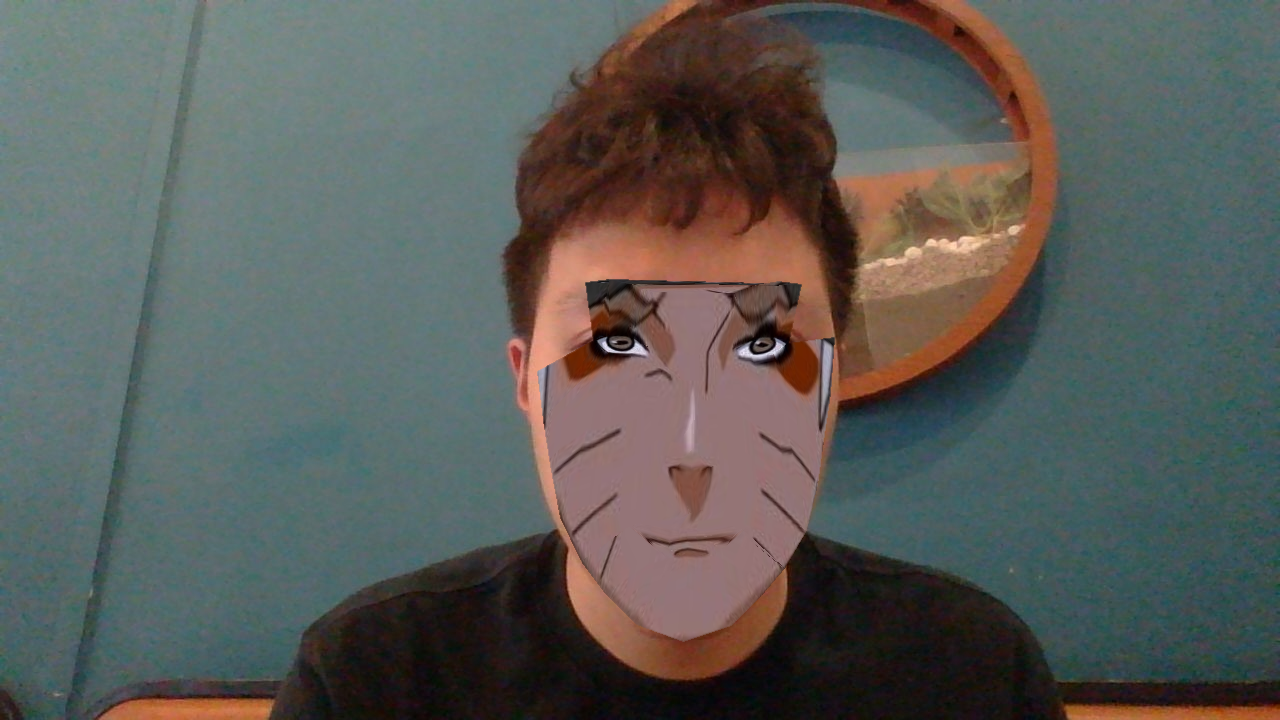
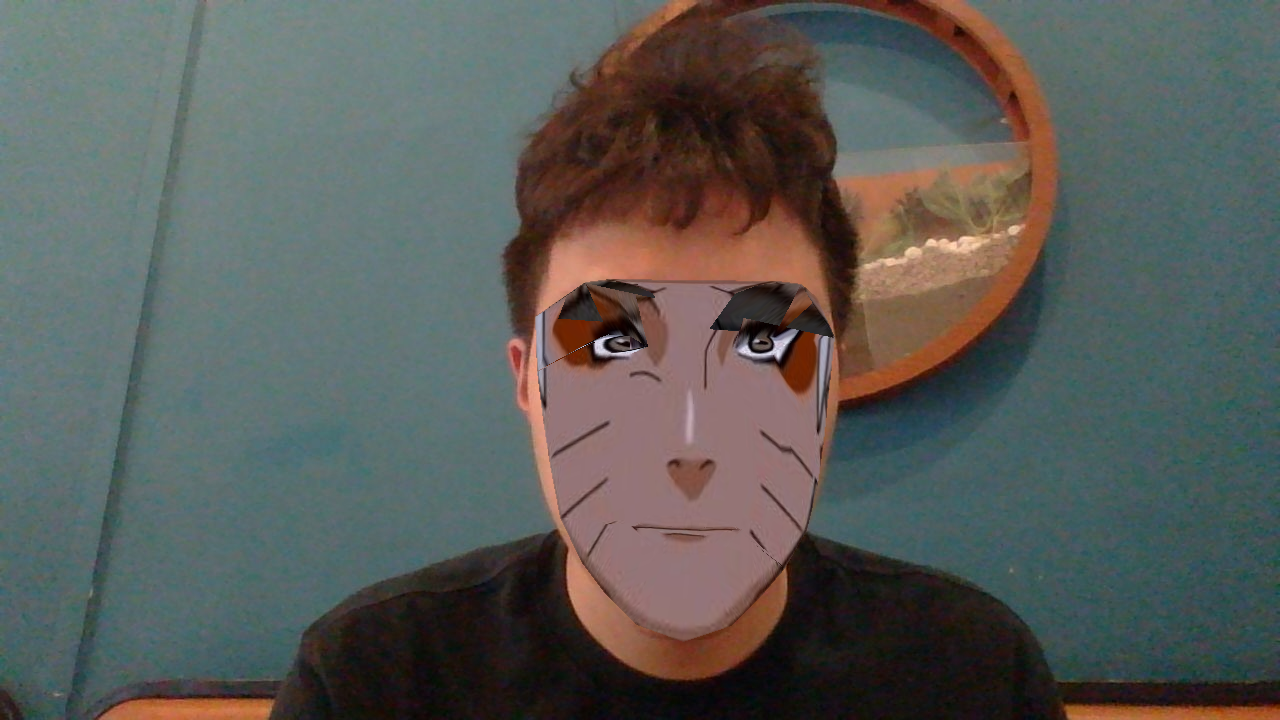
,

diff --git a/notebooks/image_annotation.py b/notebooks/image_annotation.py
@@ -17,14 +17,15 @@ import cv2
 import PIL
 from PIL import Image, ImageDraw
 import xml.etree.ElementTree as ET
-import notebooks.faceBlendCommon as fbc 
+import notebooks.faceBlendCommon as fbc
+import csv
 
 VISUALIZE_LANDMARKS = False
 
 filters_config = {
     'naruto':
         [{'path': 'filter/image/naruto.png',
-          'anno_path': 'filter/annotations/naruto.svg',
+          'anno_path': 'filter/annotations/naruto.csv', #naruto.svg
           'morph': True, 'animated': False, 'has_alpha': True
         }],
 }
@@ -80,6 +81,19 @@ def get_filter_landmarks(annotation_path: str) -> np.array:
         # landmarks[int(circle.get('data-label-name')) - 1] = (x, y)
     return np.array(landmarks)
 
+def load_filter_landmarks(annotation_file: str) -> np.array:
+    with open(annotation_file) as csv_file:
+        csv_reader = csv.reader(csv_file, delimiter=",")
+        points = {}
+        for i, row in enumerate(csv_reader):
+            # skip head or empty line if it's there
+            try:
+                x, y = int(row[1]), int(row[2])
+                points[row[0]] = (x, y)
+            except ValueError:
+                continue
+        return points
+
 def get_filter_image(img_path, has_alpha):
     img = cv2.imread(img_path, cv2.IMREAD_UNCHANGED)
  
@@ -92,8 +106,8 @@ def get_filter_image(img_path, has_alpha):
 
 def find_convex_hull(points: np.array):
     hull = []
-    # hullIndex = cv2.convexHull(np.array(list(points.values())), clockwise=False, returnPoints=False)
-    hullIndex = cv2.convexHull(np.array(points, dtype=np.float32), clockwise=False, returnPoints=False)
+    hullIndex = cv2.convexHull(np.array(list(points.values())), clockwise=False, returnPoints=False)
+    # hullIndex = cv2.convexHull(np.array(points, dtype=np.float32), clockwise=False, returnPoints=False)
     addPoints = [
         [48], [49], [50], [51], [52], [53], [54], [55], [56], [57], [58], [59],  # Outer lips
         [60], [61], [62], [63], [64], [65], [66], [67],  # Inner lips
@@ -103,7 +117,7 @@ def find_convex_hull(points: np.array):
     ]
     hullIndex = np.concatenate((hullIndex, addPoints))
     for i in range(0, len(hullIndex)):
-        hull.append(points[int(hullIndex[i][0])])
+        hull.append(points[str(hullIndex[i][0])]) #int
  
     return hull, hullIndex
 
@@ -119,10 +133,11 @@ def load_filter(filter_name: str = 'naruto'):
         temp_dict['img'] = img1
         temp_dict['img_a'] = img1_alpha
 
-        pil_img1 = Image.open(filter['path']).convert('RGB')
-        w, h = pil_img1.size
+        # pil_img1 = Image.open(filter['path']).convert('RGB')
+        # w, h = pil_img1.size
  
-        points = (get_filter_landmarks(filter['anno_path']) / np.array([100, 100]))  * np.array([w, h])
+        # points = (get_filter_landmarks(filter['anno_path']) / np.array([100, 100]))  * np.array([w, h])
+        points = load_filter_landmarks(filter['anno_path'])
  
         temp_dict['points'] = points
  
